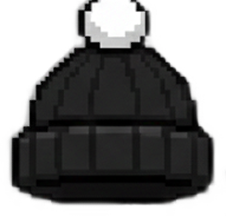
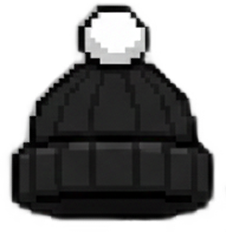
layout looks well now--

diff --git a/Public/CSS/style.css b/Public/CSS/style.css
@@ -1217,6 +1217,20 @@ body.game-mode {
   height: auto;
 }
 
+.desktop-ui .screen-game .red-sweat[data-item="pink-sweat"] {
+  --x: -10px; /* right and left */
+  --y: -10px; /* positive-- up negative-- down */
+  --w: 645px; /* size */
+}
+
+.desktop-ui .screen-game .red-sweat[data-item="purple-sweat"] {
+  --x: 0px;
+  --y: 0px;
+  --w: 650px;
+}
+
+
+
 .desktop-ui .screen-game .red-jack {
   position: absolute;
   bottom: 100px;
@@ -1229,6 +1243,20 @@ body.game-mode {
   pointer-events: none;
   height: auto;
 }
+
+.desktop-ui .screen-game .red-jack[data-item="black-jack"] {
+  --x: -10px;
+  --y: 0px;
+  --w: 540px;
+}
+
+.desktop-ui .screen-game .red-jack[data-item="purple-jack"] {
+  --x: -20px;
+  --y: 0px;
+  --w: 525px;
+}
+
+
 
 .desktop-ui .screen-game .goggles {
   position: absolute;
@@ -1243,6 +1271,21 @@ body.game-mode {
   height: auto;
 }
 
+.desktop-ui .screen-game .goggles[data-item="pink-ear"] {
+  --x: 0px;
+  --y: 80px;
+  --w: 550px;
+}
+
+.desktop-ui .screen-game .goggles[data-item="teddy"] {
+  --x: -84px;
+  --y: 98px;
+  --w: 405px;
+}
+
+
+
+
 .desktop-ui .screen-game .red-hand {
   position: absolute;
   bottom: 931px;
@@ -1256,6 +1299,21 @@ body.game-mode {
   height: auto;
 }
 
+.desktop-ui .screen-game .red-hand[data-item="glasses"] {
+  --x: 8px;
+  --y: -88px;
+  --w: 585px;
+}
+
+.desktop-ui .screen-game .red-hand[data-item="purple-hand"] {
+  --x: 0px;
+  --y: 0px;
+  --w: 585px;
+}
+
+
+
+
 .desktop-ui .screen-game .gingerbread {
   position: absolute;
   bottom: 83px;
@@ -1267,4 +1325,16 @@ body.game-mode {
   z-index: 5;
   pointer-events: none;
   height: auto;
+}
+
+.desktop-ui .screen-game .gingerbread[data-item="black-beanie"] {
+  --x: -69px;
+  --y: -63px;
+  --w: 505px;
+}
+
+.desktop-ui .screen-game .gingerbread[data-item="purple-snowboard"] {
+  --x: -30px;
+  --y: 36px;
+  --w: 560px;
 }
